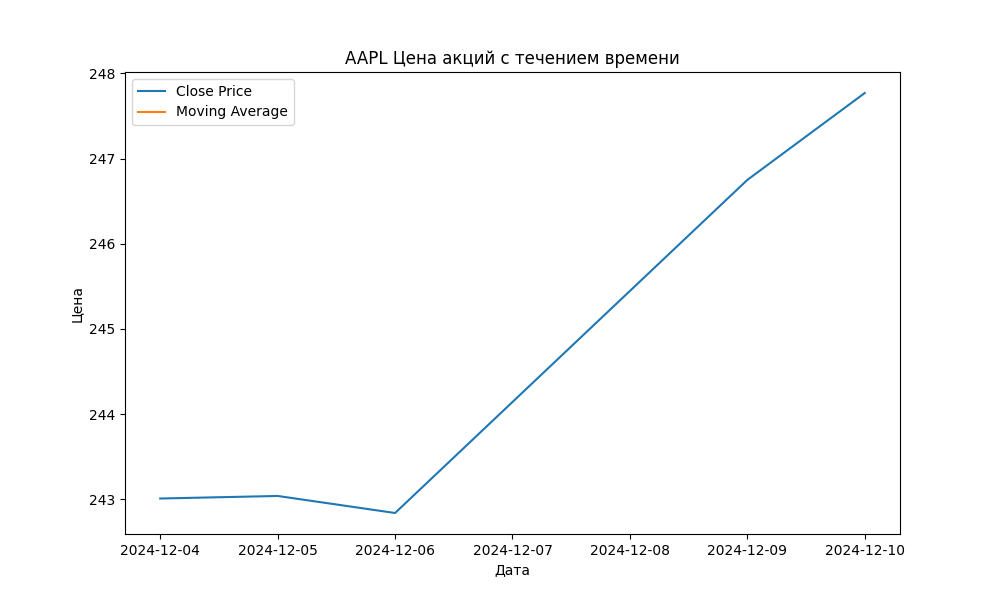
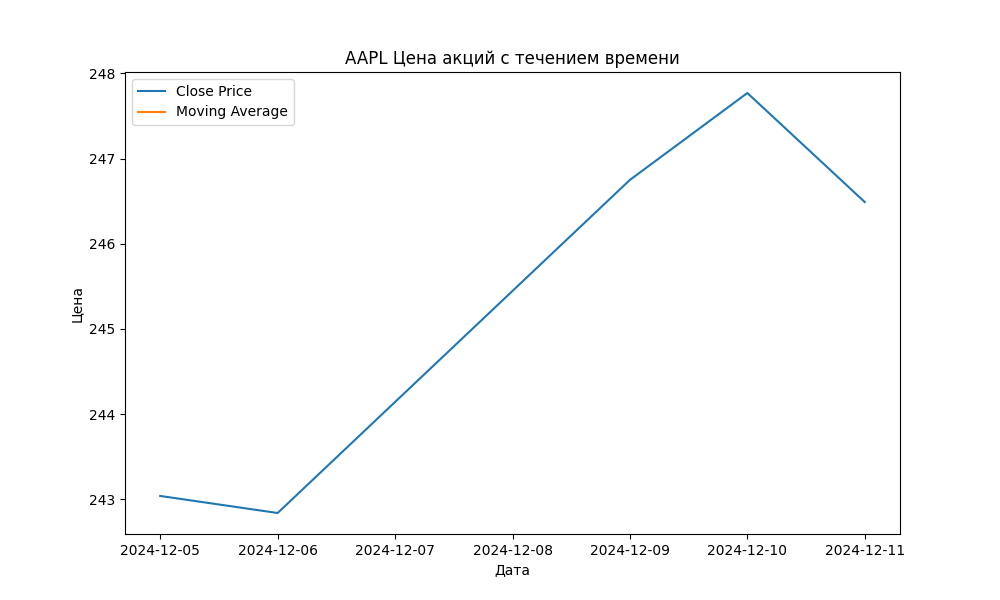
Уведомление о сильных колебаниях

diff --git a/data_plotting.py b/data_plotting.py
@@ -3,6 +3,16 @@ import pandas as pd
 
 
 def create_and_save_plot(data, ticker, period, filename=None):
+    '''
+    Создаёт график, отображающий цены закрытия и скользящие средние.
+    Предоставляет возможность сохранения графика в файл.
+     Параметр filename опционален; если он не указан, имя файла генерируется автоматически.
+    :param data: DataFrame с данными
+    :param ticker: Тикер акции
+    :param period: Период акций
+    :param filename: Название файла
+    :return: Создаёт график, отображающий цены закрытия и скользящие средние
+    '''
     plt.figure(figsize=(10, 6))
 
     if 'Date' not in data:
@@ -32,8 +42,27 @@ def create_and_save_plot(data, ticker, period, filename=None):
 
 
 def calculate_and_display_average_price(data):
+    '''
+    Вычисляет и выводит среднюю цену закрытия акций за заданный период
+    :param data: DataFrame с данными
+    :return: Выводит среднюю цену закрытия акций за заданный период
+    '''
     if 'Close' in data:
         average_price = data['Close'].mean()
         print(f"Средняя цена закрытия акций за заданный период: {average_price:.2f}")
     else:
         print("Информация о дате отсутствует или не имеет распознаваемого формата.")
+
+def notify_if_strong_fluctuations(data, threshold):
+    '''
+    Функция анализирует данные и уведомляет пользователя, если цена акций колебалась более чем на заданный процент за период
+    :param data: DataFrame с данными
+    :param threshold: Парог для сравнения с максимальным и минимальными значениями
+    :return: Пользователь получает уведомление если превышен парог
+    '''
+    max_stock = max([b for b in data['Close'].values])
+    min_stock = min([b for b in data['Close'].values])
+    if max_stock - min_stock > threshold:
+        print(f'User, разница {max_stock - min_stock} повышает порог {threshold}')
+    else:
+        pass

diff --git a/data_download.py b/data_download.py
@@ -16,9 +16,9 @@ def fetch_stock_data(ticker, period='1mo'):
 def add_moving_average(data, window_size=7):
     '''
     Добавляет в DataFrame колонку со скользящим средним, рассчитанным на основе цен закрытия.
-    :param data:
-    :param window_size:
-    :return:
+    :param data: Данные торгов
+    :param window_size: размер окна
+    :return: DataFrame с данными
     '''
     data['Moving_Average'] = data['Close'].rolling(window=window_size).mean()
     return data

diff --git a/main.py b/main.py
@@ -18,7 +18,10 @@ def main():
     #
     # # Plot the data
     dplt.create_and_save_plot(stock_data, ticker, period)
+    # Average the data
     dplt.calculate_and_display_average_price(stock_data)
+    # Difference the data
+    dplt.notify_if_strong_fluctuations(stock_data, 2)
 if __name__ == "__main__":
     main()
 
